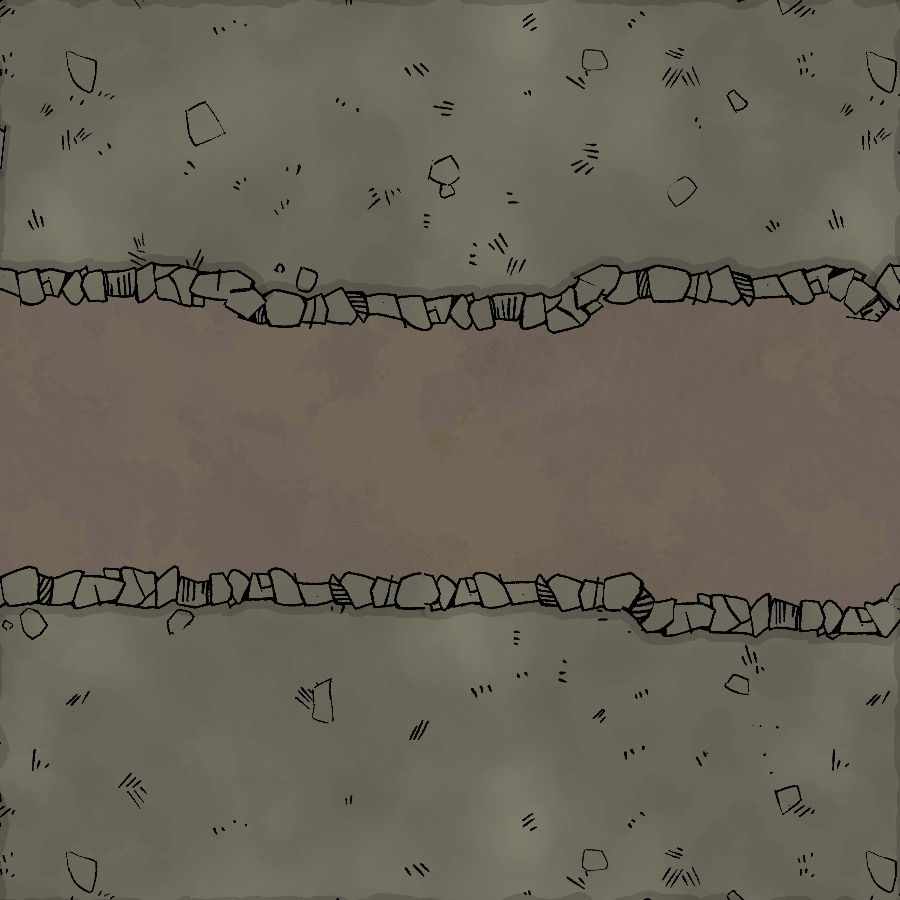
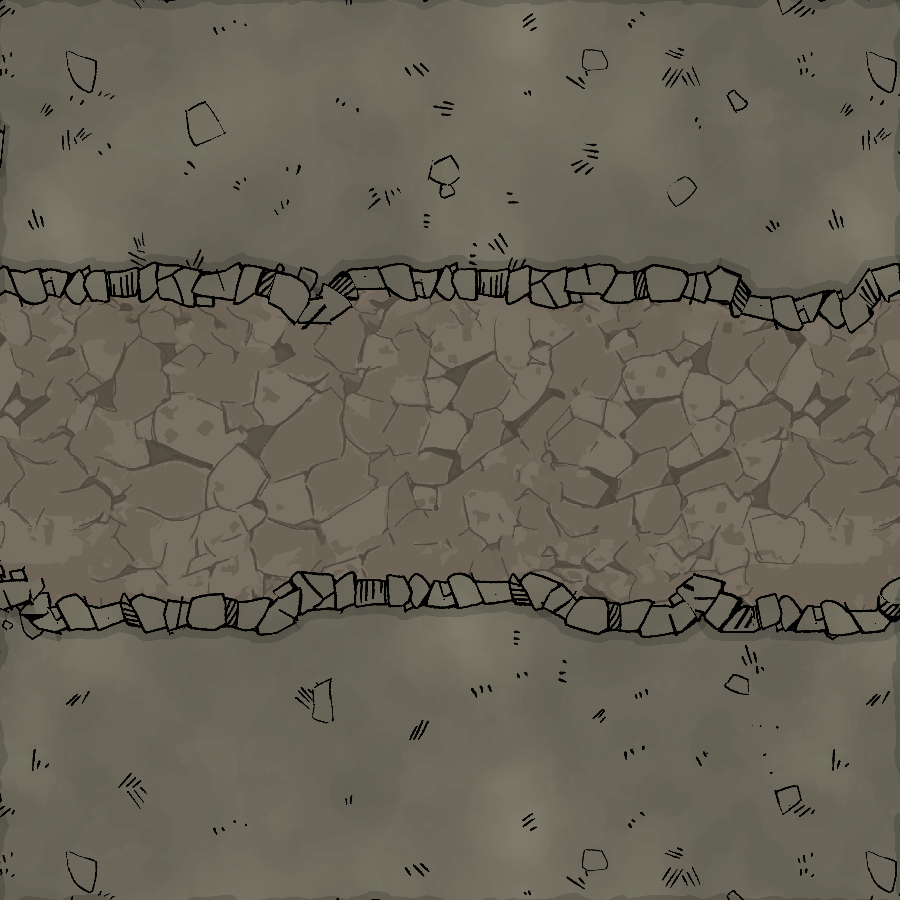
Add tile types

diff --git a/src/tile.rs b/src/tile.rs
@@ -13,6 +13,8 @@ pub enum TileType {
     Corner,
     Straight,
     T,
+    FourWay,
+    Block,
     #[default]
     Any,
 }
@@ -34,7 +36,7 @@ pub fn spawn_tile(
     commands: &mut Commands,
     asset_server: &Res<AssetServer>,
 ) {
-    // If tile_type is Any, pick one of the other tile types
+    // If tile_type is Any, pick one among a list of chosen types
     if tile_type == TileType::Any {
         tile_type = *vec![TileType::Corner, TileType::Straight, TileType::T]
             .choose(&mut thread_rng())
@@ -45,7 +47,9 @@ pub fn spawn_tile(
         TileType::Corner => "corner.png",
         TileType::Straight => "straight.png",
         TileType::T => "T_shape.png",
-        TileType::Any => "corner.png",
+        TileType::FourWay => "4_way.png",
+        TileType::Block => "Block.png",
+        TileType::Any => "corner.png", //Should never be reached
     };
 
     commands.spawn(TileBundle {
